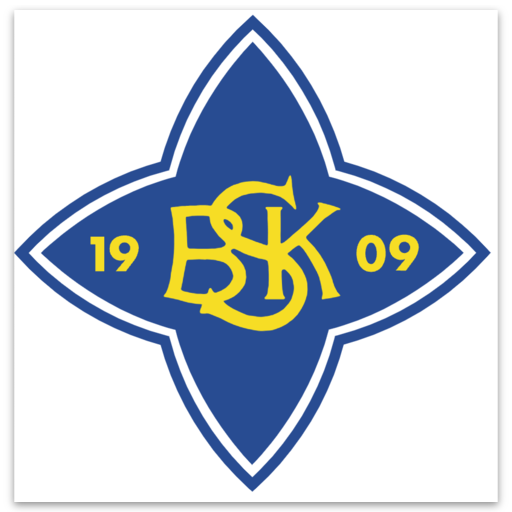
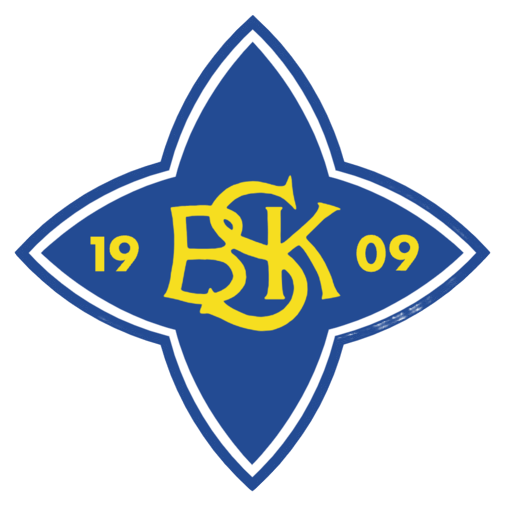
forbedret animasjoner

Changed region(s): [[0.0, 0.0312, 1.0, 1.0], [0.7188, 0.5938, 0.8438, 0.6562]]

diff --git a/ikoner/laster.tsx b/ikoner/laster.tsx
@@ -4,12 +4,16 @@ import bskBilde from '../public/android-chrome-512x512.png'
 
 const Laster = () => {
     return (
-        <Image
-            loading="eager"
-            className="animate-spin-cool h-full w-full object-cover"
-            src={bskBilde}
-            alt="Loading spinner"
-        />
+        <div className="flex items-center justify-center h-64 w-64 mx-auto" style={{ contain: 'layout style paint' }}>
+            <Image
+                loading="eager"
+                className="animate-spin-cool h-48 w-48 object-cover"
+                src={bskBilde}
+                alt="Loading spinner"
+                width={192}
+                height={192}
+            />
+        </div>
     )
 }
 

diff --git a/app/manifest.ts b/app/manifest.ts
@@ -11,7 +11,7 @@ export default function manifest(): MetadataRoute.Manifest {
         theme_color: '#000000',
         icons: [
             {
-                src: '/android-chrome-512x512.png',
+                src: '/android-chrome-512x512_original.png',
                 sizes: '512x512',
                 type: 'image/png',
             },

diff --git a/app/globals.css b/app/globals.css
@@ -6,6 +6,11 @@
 @tailwind components;
 @tailwind utilities;
 
+/* Prevent layout shift from scrollbar */
+html {
+    scrollbar-gutter: stable;
+}
+
 body {
     color: var(--foreground);
     background: var(--background);

diff --git a/app/styles/animasjoner.css b/app/styles/animasjoner.css
@@ -87,4 +87,6 @@
 
 .animate-spin-cool {
   animation: spin-cool 1s linear infinite;
+  display: inline-block;
+  transform-origin: center center;
 }
